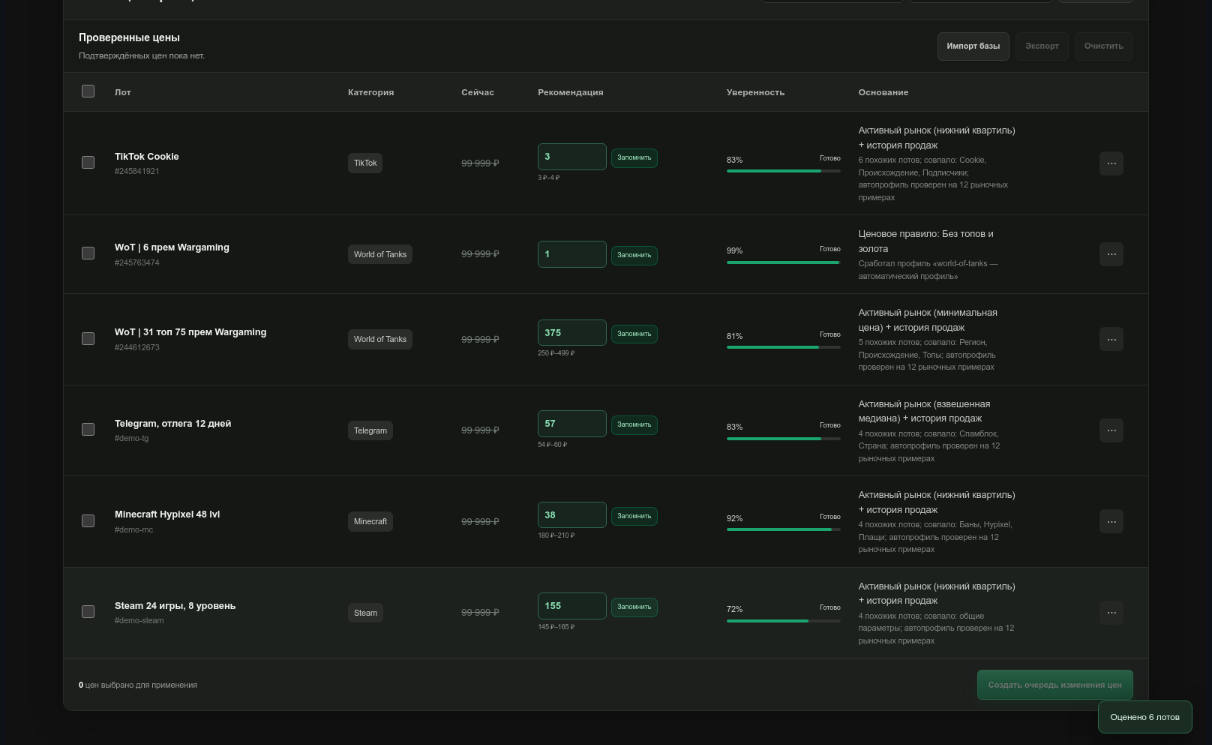
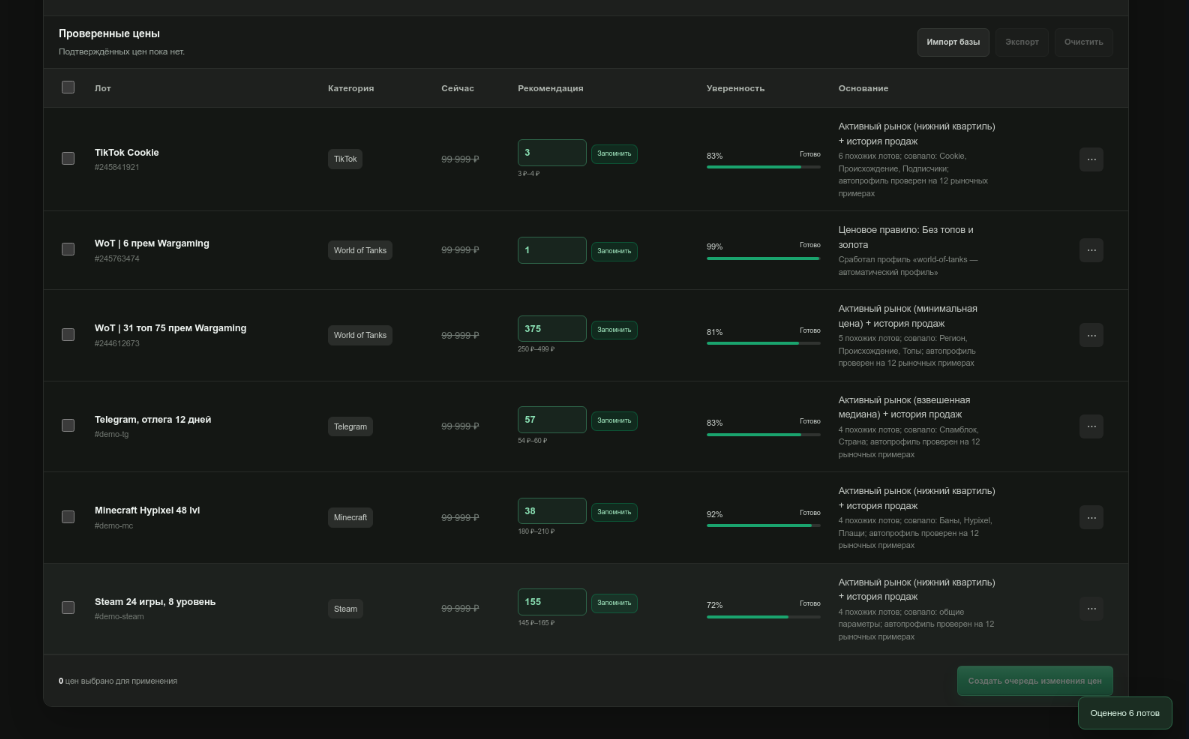
Add files via upload

diff --git a/README.md b/README.md
@@ -1,10 +1,10 @@
 # LotFlow 1.0
 
-![Версия](https://img.shields.io/badge/version-1.0-168c5c?style=flat-square&labelColor=111713)
-![Тесты](https://img.shields.io/badge/tests-175%20passed-168c5c?style=flat-square&labelColor=111713&logo=githubactions&logoColor=white)
-![Node.js](https://img.shields.io/badge/Node.js-20%2B-168c5c?style=flat-square&labelColor=111713&logo=nodedotjs&logoColor=white)
-![Лицензия](https://img.shields.io/badge/license-MIT-168c5c?style=flat-square&labelColor=111713)
-![LZT Market](https://img.shields.io/badge/LZT-Market%20pricing-168c5c?style=flat-square&labelColor=111713)
+![Версия](https://img.shields.io/badge/version-1.0-19c37d?style=for-the-badge)
+![Тесты](https://img.shields.io/badge/tests-175%20passed-19c37d?style=for-the-badge&logo=githubactions&logoColor=white)
+![Node.js](https://img.shields.io/badge/Node.js-20%2B-339933?style=for-the-badge&logo=nodedotjs&logoColor=white)
+![Лицензия](https://img.shields.io/badge/license-MIT-168c5c?style=for-the-badge)
+![LZT Market](https://img.shields.io/badge/LZT-Market%20pricing-111713?style=for-the-badge)
 
 LotFlow помогает продавцам LZT Market оценивать лоты по рыночным аналогам, проверять рекомендации и массово применять подтверждённые цены.
 